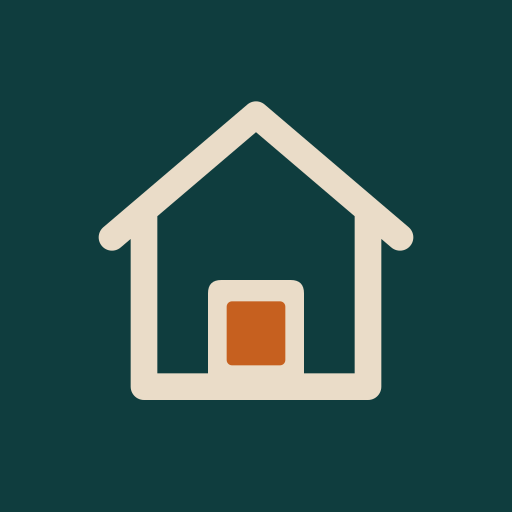
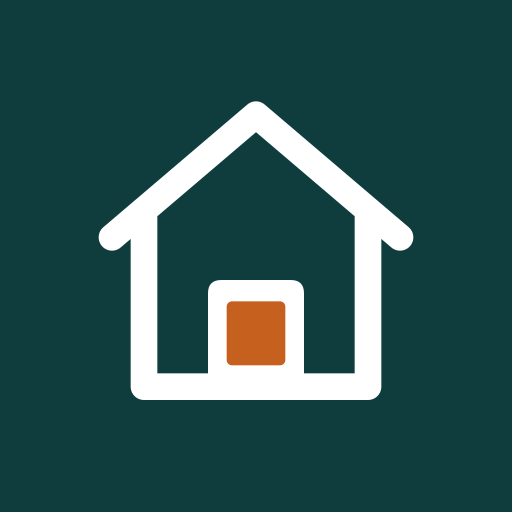
v6: swivel chair back east of the coffee table; cream -> pure white
- Living: brown swivel chair, coffee table, rug, lamp back to their PR #7 spots; black armchair stays removed, plant fills its spot west of the sofa; sofa at (6.30, 8.625) to keep the 0.6 m route past the ESTANTE
- Replace cream #EADCC8 with #FFFFFF across the UI, minimap, dollhouse backdrop, manifest and icons (white house on deep teal); contrast tests updated

Changed region(s): [[0.1875, 0.1875, 0.8125, 0.7812]]

diff --git a/src/view/Scene.tsx b/src/view/Scene.tsx
@@ -369,7 +369,7 @@ function Annotations({ portal }: { portal: RefObject<HTMLDivElement | null> }) {
     {!controlsHidden && target && mode === 'walk' && <group position={planToWorld(target, floorElevation(target, walkingFloors) + 0.022)} rotation={[-Math.PI / 2, 0, 0]}>
       <mesh>
         <ringGeometry args={[0.156, 0.174, 32]} />
-        <meshBasicMaterial color={palette.cream} toneMapped={false} fog={false} />
+        <meshBasicMaterial color={palette.white} toneMapped={false} fog={false} />
       </mesh>
       <mesh>
         <ringGeometry args={[0.174, 0.192, 32]} />
@@ -393,7 +393,7 @@ function Annotations({ portal }: { portal: RefObject<HTMLDivElement | null> }) {
     {!controlsHidden && points.map((point, index) => <group key={index} position={point}>
       <mesh renderOrder={11}>
         <sphereGeometry args={[0.083, 12, 8]} />
-        <meshBasicMaterial color={palette.cream} depthTest={false} toneMapped={false} fog={false} />
+        <meshBasicMaterial color={palette.white} depthTest={false} toneMapped={false} fog={false} />
       </mesh>
       <mesh renderOrder={12}>
         <sphereGeometry args={[0.07, 12, 8]} />
@@ -405,7 +405,7 @@ function Annotations({ portal }: { portal: RefObject<HTMLDivElement | null> }) {
       </mesh>
     </group>)}
     {a && b && <>
-      <Line points={[a, b]} color={palette.cream} lineWidth={6.5} depthTest={false} toneMapped={false} fog={false} renderOrder={8} />
+      <Line points={[a, b]} color={palette.white} lineWidth={6.5} depthTest={false} toneMapped={false} fog={false} renderOrder={8} />
       <Line points={[a, b]} color={palette['near-black']} lineWidth={4.5} depthTest={false} toneMapped={false} fog={false} renderOrder={9} />
       <Line points={[a, b]} color={palette.orange} lineWidth={2.5} depthTest={false} toneMapped={false} fog={false} renderOrder={10} />
       <Html portal={htmlPortal} center position={new THREE.Vector3(...a).lerp(new THREE.Vector3(...b), 0.5)}
@@ -466,7 +466,7 @@ export default function Scene({ labelsPortal, stats }: {
   const whiteDay = useApp(s => s.settings.style === 'white' && s.settings.lighting === 'day')
   const [dpr, setDpr] = useState(initialDpr)
   // The white Walk scene has no sky mesh and uses its original horizon backdrop.
-  const background = mode === 'walk' && whiteDay ? 'linear-gradient(170deg, #dce5e7, #f5f6f1 70%)' : undefined
+  const background = mode === 'walk' && whiteDay ? '#dce5e7' : undefined
   return <Canvas style={{ background }} dpr={dpr} gl={rendererOptions} shadows camera={{ fov: 55, near: 0.035, far: 180 }}
     fallback={<p className="loading">{dictionary[language].unavailable}</p>}>
     {maxDpr > 1 && <PerformanceMonitor bounds={performanceBounds}

diff --git a/src/styles.css b/src/styles.css
@@ -4,10 +4,10 @@
   --deep-teal: #0F3D3E;
   --teal: #2E6F73;
   --light-teal: #7FB3B8;
-  --cream: #EADCC8;
+  --white: #FFFFFF;
   --orange: #C6601F;
   color: var(--near-black);
-  background: var(--cream);
+  background: var(--white);
   font-synthesis: none;
   --shadow: 0 5px 22px #0A0F1438;
   --top: max(12px, env(safe-area-inset-top));
@@ -16,14 +16,14 @@
   --left: max(12px, env(safe-area-inset-left));
 }
 .app[data-lighting="day"] {
-  --surface: var(--cream);
+  --surface: var(--white);
   --foreground: var(--near-black);
   --secondary: var(--deep-teal);
   --hover: var(--light-teal);
   --active: var(--deep-teal);
-  --on-active: var(--cream);
+  --on-active: var(--white);
   --plan-land: var(--light-teal);
-  --plan-room: var(--cream);
+  --plan-room: var(--white);
   --plan-water: var(--light-teal);
   --plan-wall: var(--near-black);
   --plan-opening: var(--teal);
@@ -31,7 +31,7 @@
 }
 .app[data-lighting="night"] {
   --surface: var(--near-black);
-  --foreground: var(--cream);
+  --foreground: var(--white);
   --secondary: var(--light-teal);
   --hover: var(--deep-teal);
   --active: var(--light-teal);
@@ -39,7 +39,7 @@
   --plan-land: var(--deep-teal);
   --plan-room: var(--near-black);
   --plan-water: var(--teal);
-  --plan-wall: var(--cream);
+  --plan-wall: var(--white);
   --plan-opening: var(--deep-teal);
   color-scheme: dark;
 }
@@ -183,5 +183,5 @@ button:not(:disabled):active, .primary:not(:disabled):active, button[aria-presse
 
 .controls-restore:focus-visible, .map-show:focus-visible {
   outline-offset: 0;
-  box-shadow: 0 0 0 4px var(--near-black), 0 0 0 6px var(--cream), var(--shadow);
+  box-shadow: 0 0 0 4px var(--near-black), 0 0 0 6px var(--white), var(--shadow);
 }

diff --git a/src/model/palette.ts b/src/model/palette.ts
@@ -3,7 +3,7 @@ export const palette = {
   'deep-teal': '#0F3D3E',
   teal: '#2E6F73',
   'light-teal': '#7FB3B8',
-  cream: '#EADCC8',
+  white: '#FFFFFF',
   orange: '#C6601F',
 } as const
 
@@ -11,15 +11,15 @@ type Color = keyof typeof palette
 
 export const themes = {
   day: {
-    surface: 'cream', foreground: 'near-black', secondary: 'deep-teal',
-    hover: 'light-teal', active: 'deep-teal', 'on-active': 'cream',
-    'plan-land': 'light-teal', 'plan-room': 'cream', 'plan-water': 'light-teal',
+    surface: 'white', foreground: 'near-black', secondary: 'deep-teal',
+    hover: 'light-teal', active: 'deep-teal', 'on-active': 'white',
+    'plan-land': 'light-teal', 'plan-room': 'white', 'plan-water': 'light-teal',
     'plan-wall': 'near-black', 'plan-opening': 'teal',
   },
   night: {
-    surface: 'near-black', foreground: 'cream', secondary: 'light-teal',
+    surface: 'near-black', foreground: 'white', secondary: 'light-teal',
     hover: 'deep-teal', active: 'light-teal', 'on-active': 'near-black',
     'plan-land': 'deep-teal', 'plan-room': 'near-black', 'plan-water': 'teal',
-    'plan-wall': 'cream', 'plan-opening': 'deep-teal',
+    'plan-wall': 'white', 'plan-opening': 'deep-teal',
   },
 } as const satisfies Record<string, Record<string, Color>>

diff --git a/src/model/icons.test.ts b/src/model/icons.test.ts
@@ -14,9 +14,9 @@ it('serves all icons and the web manifest referenced by index.html and the manif
     background_color: string
     icons: { src: string; purpose: string }[]
   }
-  expect(html).toContain(`name="theme-color" content="${palette.cream}"`)
-  expect(manifest.theme_color).toBe(palette.cream)
-  expect(manifest.background_color).toBe(palette.cream)
+  expect(html).toContain(`name="theme-color" content="${palette.white}"`)
+  expect(manifest.theme_color).toBe(palette.white)
+  expect(manifest.background_color).toBe(palette.white)
   expect(manifest.icons.map(({ src, purpose }) => [src, purpose])).toEqual([
     ['favicon.svg', 'any'], ['icon-192.png', 'any'], ['icon-512.png', 'any'], ['icon-512-maskable.png', 'maskable'],
   ])
@@ -29,7 +29,7 @@ it('ships matching brand glyphs and the required icon sizes', () => {
   const svg = readFileSync(new URL('favicon.svg', publicDir), 'utf8')
   expect(readFileSync(new URL('house.svg', publicDir), 'utf8')).toBe(svg)
   expect([...svg.matchAll(/#[0-9a-f]{6}/gi)].map(([color]) => color)).toEqual([
-    palette['deep-teal'], palette.cream, palette.cream, palette.orange,
+    palette['deep-teal'], palette.white, palette.white, palette.orange,
   ])
 
   const ico = readFileSync(new URL('favicon.ico', publicDir))

diff --git a/src/model/palette.test.ts b/src/model/palette.test.ts
@@ -28,14 +28,14 @@ const pairs: Pair[] = [
   ['Borders, control outlines, joystick rim and track', 'secondary', 'surface', 3],
   ['Active button and checkbox boundary, joystick knob', 'active', 'surface', 3],
   ['Focus ring', 'orange', 'surface', 3],
-  ['Restore focus and marker outline', 'cream', 'near-black', 3],
+  ['Restore focus and marker outline', 'white', 'near-black', 3],
   ['Marker fill and restore focus ring against its dark outer edge', 'orange', 'near-black', 3],
   ['Plan walls, openings and features against rooms', 'plan-wall', 'plan-room', 3],
   ['Plan boundaries and features against land', 'plan-wall', 'plan-land', 3],
   ['Pool edge', 'plan-wall', 'plan-water', 3],
   ['Window against wall and outline', 'plan-opening', 'plan-wall', 3],
-  ['House outline and door against badge', 'cream', 'deep-teal', 3],
-  ['House door accent against cream surround', 'orange', 'cream', 3],
+  ['House outline and door against badge', 'white', 'deep-teal', 3],
+  ['House door accent against white surround', 'orange', 'white', 3],
 ]
 
 const css = readFileSync(new URL('../styles.css', import.meta.url), 'utf8')

diff --git a/src/model/furniture.ts b/src/model/furniture.ts
@@ -104,14 +104,14 @@ export const furnitureItems: FurnitureItem[] = [
     ['showerHead', [17.85, 6.185], [0.24, 0.36, 0.08], 0, raised(2.1)],
   ]),
   ...inRoom('living', [
-    ['sofa', [6.59, 8.55], [2.40, 0.95, 0.80], 270],
-    ['coffeeTable', [6.80, 7.60], [1.10, 0.60, 0.38], 270],
+    ['sofa', [6.30, 8.625], [2.40, 0.95, 0.80], 270],
+    ['coffeeTable', [6.10, 7.60], [1.10, 0.60, 0.38], 270],
     ['mediaConsole', [5.975, 5.85], [2.00, 0.45, 0.50], 90],
     ['tv', [5.975, 5.655], [1.45, 0.05, 0.84], 90, raised(0.95)],
-    ['loungechair', [5.40, 7.48], [1.01, 1.19, 1.17], 0],
-    ['rug', [6.80, 7.60], [2.80, 2.00, 0.01], 270, visual],
-    ['floorLamp', [4.85, 8.80], [0.35, 0.35, 1.60], 0],
-    ['plant', [4.35, 8.55], [0.60, 0.60, 1.34], 0],
+    ['loungechair', [7.40, 7.60], [1.01, 1.19, 1.17], 180],
+    ['rug', [6.10, 7.60], [2.80, 2.00, 0.01], 270, visual],
+    ['floorLamp', [4.35, 9.30], [0.35, 0.35, 1.60], 0],
+    ['plant', [4.40, 8.55], [0.60, 0.60, 1.34], 0],
     ['entryConsole', [4.185, 10.80], [1.20, 0.35, 0.80], 0],
     ['roomDivider', [6.20, 11.285], [3.17, 0.30, 2.40], 180],
   ]),

diff --git a/src/main.tsx b/src/main.tsx
@@ -75,7 +75,7 @@ function Plan({ interactive = false, labels = false }: { interactive?: boolean; 
     {labels && house.rooms.map(zone => <text key={zone.id} className="plan-label"
       x={zone.label[0]} y={zone.label[1]} textAnchor="middle" dominantBaseline="central">{roomName(zone, language)}</text>)}
     <g transform={`translate(${x} ${y}) rotate(${pose.heading * 180 / Math.PI})`}>
-      <path d="M1.43 0-.45-.72-.16 0-.45.72Z" fill="none" stroke="var(--cream)" strokeWidth=".33" strokeLinejoin="round" />
+      <path d="M1.43 0-.45-.72-.16 0-.45.72Z" fill="none" stroke="var(--white)" strokeWidth=".33" strokeLinejoin="round" />
       <path d="M1.43 0-.45-.72-.16 0-.45.72Z" fill="var(--orange)" stroke="var(--near-black)" strokeWidth=".16" strokeLinejoin="round" />
     </g>
   </svg>

diff --git a/src/model/clearance.test.ts b/src/model/clearance.test.ts
@@ -109,7 +109,7 @@ it('keeps a 0.6 m pull-out zone at every desk', () => {
 
 it.each([
   // Cross between the room divider and sofa, then turn north before the bar stools.
-  ['P01 to dining', [[4.05, 12.30], [5.01, 12.30], [5.01, 9.37], [8.09, 9.37], [8.09, 9.00], [8.69, 9.00]]],
+  ['P01 to dining', [[4.05, 12.30], [5.01, 12.30], [5.01, 9.40], [8.09, 9.40], [8.09, 9.00], [8.69, 9.00]]],
   ['P02 to dining', [[7.38, 5.15], [7.38, 6.74], [8.69, 6.74]]],
 ] satisfies [string, Point[]][])('keeps a 0.6 m route from %s', (_route, points) => {
   const walk = createCollision(house.lot, [

diff --git a/index.html b/index.html
@@ -3,7 +3,7 @@
   <head>
     <meta charset="UTF-8">
     <meta name="viewport" content="width=device-width, initial-scale=1, maximum-scale=1, viewport-fit=cover, user-scalable=no">
-    <meta name="theme-color" content="#EADCC8">
+    <meta name="theme-color" content="#FFFFFF">
     <meta name="apple-mobile-web-app-capable" content="yes">
     <link rel="icon" href="./favicon.ico" sizes="48x48">
     <link rel="icon" href="./favicon.svg" type="image/svg+xml">

diff --git a/tools/icons.py b/tools/icons.py
@@ -8,7 +8,7 @@ from PIL import Image
 
 PUBLIC = Path(__file__).resolve().parents[1] / "public"
 DEEP_TEAL = "#0F3D3E"
-CREAM = "#EADCC8"
+WHITE = "#FFFFFF"
 ORANGE = "#C6601F"
 
 
@@ -16,8 +16,8 @@ def svg(*, full_bleed=False):
     radius = 0 if full_bleed else 42
     return f'''<svg xmlns="http://www.w3.org/2000/svg" width="192" height="192" viewBox="0 0 192 192">
   <rect width="192" height="192" rx="{radius}" fill="{DEEP_TEAL}"/>
-  <path d="M42 89l54-46 54 46m-96-9v65h84V80" fill="none" stroke="{CREAM}" stroke-width="10" stroke-linecap="round" stroke-linejoin="round"/>
-  <path d="M78 145v-35q0-5 5-5h26q5 0 5 5v35Z" fill="{CREAM}"/>
+  <path d="M42 89l54-46 54 46m-96-9v65h84V80" fill="none" stroke="{WHITE}" stroke-width="10" stroke-linecap="round" stroke-linejoin="round"/>
+  <path d="M78 145v-35q0-5 5-5h26q5 0 5 5v35Z" fill="{WHITE}"/>
   <rect x="85" y="113" width="22" height="24" rx="2" fill="{ORANGE}"/>
 </svg>
 '''

diff --git a/README.md b/README.md
@@ -120,7 +120,7 @@ The reference photos set the look; anything they and the blueprint don't settle 
 - Night (dusk): deep-blue gradient sky with a faint warm horizon, dim moon without shadows, warm emissive downlight discs (~1 per 3 m²) on ceilings and soffits, 2 warm interior point lights, 1 cyan pool light, 1 fire light, emissive step lights. At most 6 real lights at night.
 - Textures are tiny procedural canvas textures (128–256 px, tiled, generated at load), so there are no image files to download or compress; they stay deliberately subtle.
 - Adaptive DPR (1 → 2, starting at 1.5 on touch devices). Add `?stats` to the URL to see FPS, draw calls, triangles and DPR.
-- The white model is still available (Settings → Style → White model). By day, the white Dollhouse uses a flat cream backdrop and white Walk keeps its original horizon.
+- The white model is still available (Settings → Style → White model). By day, the white Dollhouse uses a flat white backdrop and white Walk uses a flat horizon colour.
 
 ## v4 changes
 
@@ -132,19 +132,19 @@ The Lighting setting applies the same day or night theme to the viewer chrome, s
 
 | Token | Day | Night | Use |
 | --- | --- | --- | --- |
-| `surface` | `#EADCC8` | `#0A0F14` | Chrome, plan frame, dialogs, joystick, loading and room labels |
-| `foreground` | `#0A0F14` | `#EADCC8` | Primary text and icons |
+| `surface` | `#FFFFFF` | `#0A0F14` | Chrome, plan frame, dialogs, joystick, loading and room labels |
+| `foreground` | `#0A0F14` | `#FFFFFF` | Primary text and icons |
 | `secondary` | `#0F3D3E` | `#7FB3B8` | Secondary text, icons and control outlines |
 | `hover` | `#7FB3B8` | `#0F3D3E` | Inactive control hover |
-| `active` / `on-active` | `#0F3D3E` / `#EADCC8` | `#7FB3B8` / `#0A0F14` | Selected controls, primary buttons, distance labels and stats |
+| `active` / `on-active` | `#0F3D3E` / `#FFFFFF` | `#7FB3B8` / `#0A0F14` | Selected controls, primary buttons, distance labels and stats |
 | `plan-land` / `plan-water` | `#7FB3B8` / `#7FB3B8` | `#0F3D3E` / `#2E6F73` | Lot, garden and water fills |
-| `plan-room` / `plan-wall` | `#EADCC8` / `#0A0F14` | `#0A0F14` / `#EADCC8` | Room fills, wall lines and plan features |
+| `plan-room` / `plan-wall` | `#FFFFFF` / `#0A0F14` | `#0A0F14` / `#FFFFFF` | Room fills, wall lines and plan features |
 | `plan-opening` | `#2E6F73` | `#0F3D3E` | Window fills |
 | `orange` | `#C6601F` | `#C6601F` | Focus, plan marker, measurement graphics and house door accent |
 
-Vitest checks WCAG contrast for both themes. Cream on burnt orange is 3.06:1 and white is 4.12:1, so the accent is reserved for graphics. The startup manifest uses cream, and the browser theme color follows Lighting.
+Vitest checks WCAG contrast for both themes. Burnt orange on white is 4.12:1. The accent is reserved for graphics and focus indicators. The startup manifest uses white, and the browser theme color follows Lighting.
 
-Run `python3 tools/icons.py` with FFmpeg built with librsvg and Python Pillow to regenerate both SVGs, the 16/32/48 px ICO, the 180 px Apple touch icon, and the 192/512 px app icons. The Apple touch and maskable icons use opaque deep-teal backgrounds. The maskable icon keeps its cream house and orange door inside the central 80% circle.
+Run `python3 tools/icons.py` with FFmpeg built with librsvg and Python Pillow to regenerate both SVGs, the 16/32/48 px ICO, the 180 px Apple touch icon, and the 192/512 px app icons. The Apple touch and maskable icons use opaque deep-teal backgrounds. The maskable icon keeps its white house and orange door inside the central 80% circle.
 
 ## Furniture, appliances and vehicles
 
